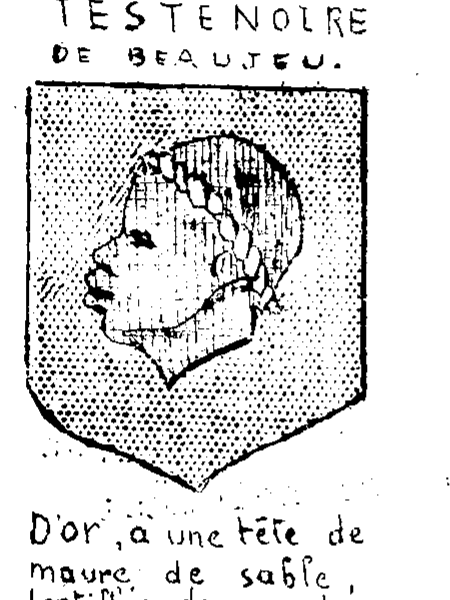
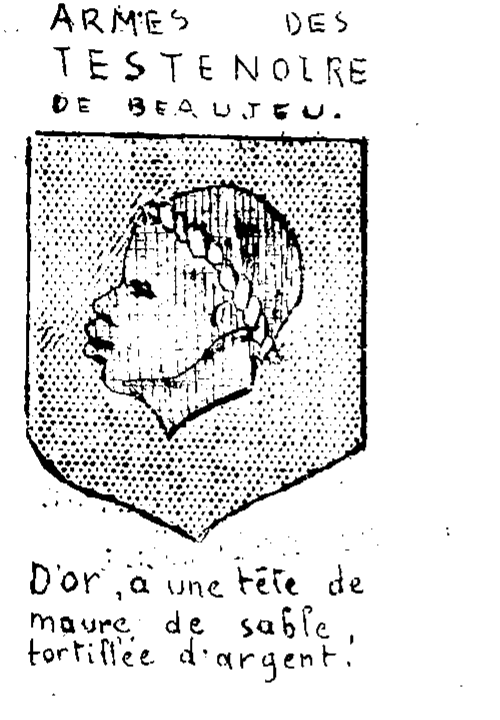
fix: intégrer les armes manuscrites des familles

diff --git a/Chapitres/11-montaulieu.tex b/Chapitres/11-montaulieu.tex
@@ -41,9 +41,10 @@ Le 28 Décembre 1669 Gabriel Dubost, par un acte reçu Testenoire, notaire royal
 
 Famille de Fautrières
 
-\begin{center}
-    \includegraphics[width=0.20\textwidth]{Illustrations/illus-montaulieu-fautrieres.png}
-\end{center}
+\begin{wrapfigure}{l}{0.42\textwidth}
+    \vspace{-0.8\baselineskip}
+    \includegraphics[width=0.39\textwidth]{Illustrations/illus-montaulieu-fautrieres.png}
+\end{wrapfigure}
 
 Cette famille, propriétaire du château de Corcheval, paroisse de Beaubéry dans la Saône et Loire, était très ancienne. Elle avait donné son nom à une localité appelée Fautrières, autrefois paroisse, réunie en 1823 à Palingues chef lieu de Canton.
 
@@ -59,12 +60,10 @@ Hélène Esprit, deuxième enfant de Michel de Fautrières épousa le 17 Févrie
 
 Famille de Laurencin
 
-Armes de Laurencin
-Seigneur d'Avenas
-
-\begin{center}
-    \includegraphics[width=0.20\textwidth]{Illustrations/illus-montaulieu-laurencin.png}
-\end{center}
+\begin{wrapfigure}{l}{0.42\textwidth}
+    \vspace{-0.8\baselineskip}
+    \includegraphics[width=0.39\textwidth]{Illustrations/illus-montaulieu-laurencin.png}
+\end{wrapfigure}
 
 Jean François de Laurencin, Comte d'Avenas, capitaine au régiment de Navarre.. appartenait à la branche des seigneurs de Beaufort en Comté par son aïeul Raimond de Laurencin.
 

diff --git a/Chapitres/12-grosbois.tex b/Chapitres/12-grosbois.tex
@@ -45,11 +45,10 @@ Il avait épousé par contrat du 6 août 1772, demoiselle Françoise Thérèse d
 
 Antoine Isidore Marie de la Roche mourut sans postérité. Avec lui s'éteignit la branche aînée de la famille de la Roche.
 
-Armes de Grosbois
-
-\begin{center}
-    \includegraphics[width=0.20\textwidth]{Illustrations/illus-grosbois-armoiries.png}
-\end{center}
+\begin{wrapfigure}{l}{0.46\textwidth}
+    \vspace{-0.8\baselineskip}
+    \includegraphics[width=0.43\textwidth]{Illustrations/illus-grosbois-armoiries.png}
+\end{wrapfigure}
 
 Grosbois appartient à la famille Berloty depuis 1842. François Félix Berloty, notaire à Lyon, avait acheté la plus grande partie du domaine et le château à MM. Solichon \& Pallaisson qui l'avaient acquis eux-mêmes un an auparavant de Monsieur de Lacarelle.
 

diff --git a/Chapitres/13-autres-familles.tex b/Chapitres/13-autres-familles.tex
@@ -5,10 +5,10 @@
 \chapter{Autres familles anciennes}
 
 % --- Page imprimée 67 — vue 70
-Armes des Testenoire de Beaujeu.
-\begin{center}
-    \includegraphics[width=0.22\textwidth]{Illustrations/illus-autres-testenoire.png}
-\end{center}
+\begin{wrapfigure}{l}{0.40\textwidth}
+    \vspace{-0.8\baselineskip}
+    \includegraphics[width=0.37\textwidth]{Illustrations/illus-autres-testenoire.png}
+\end{wrapfigure}
 
 Duligier - Testenoire
 
